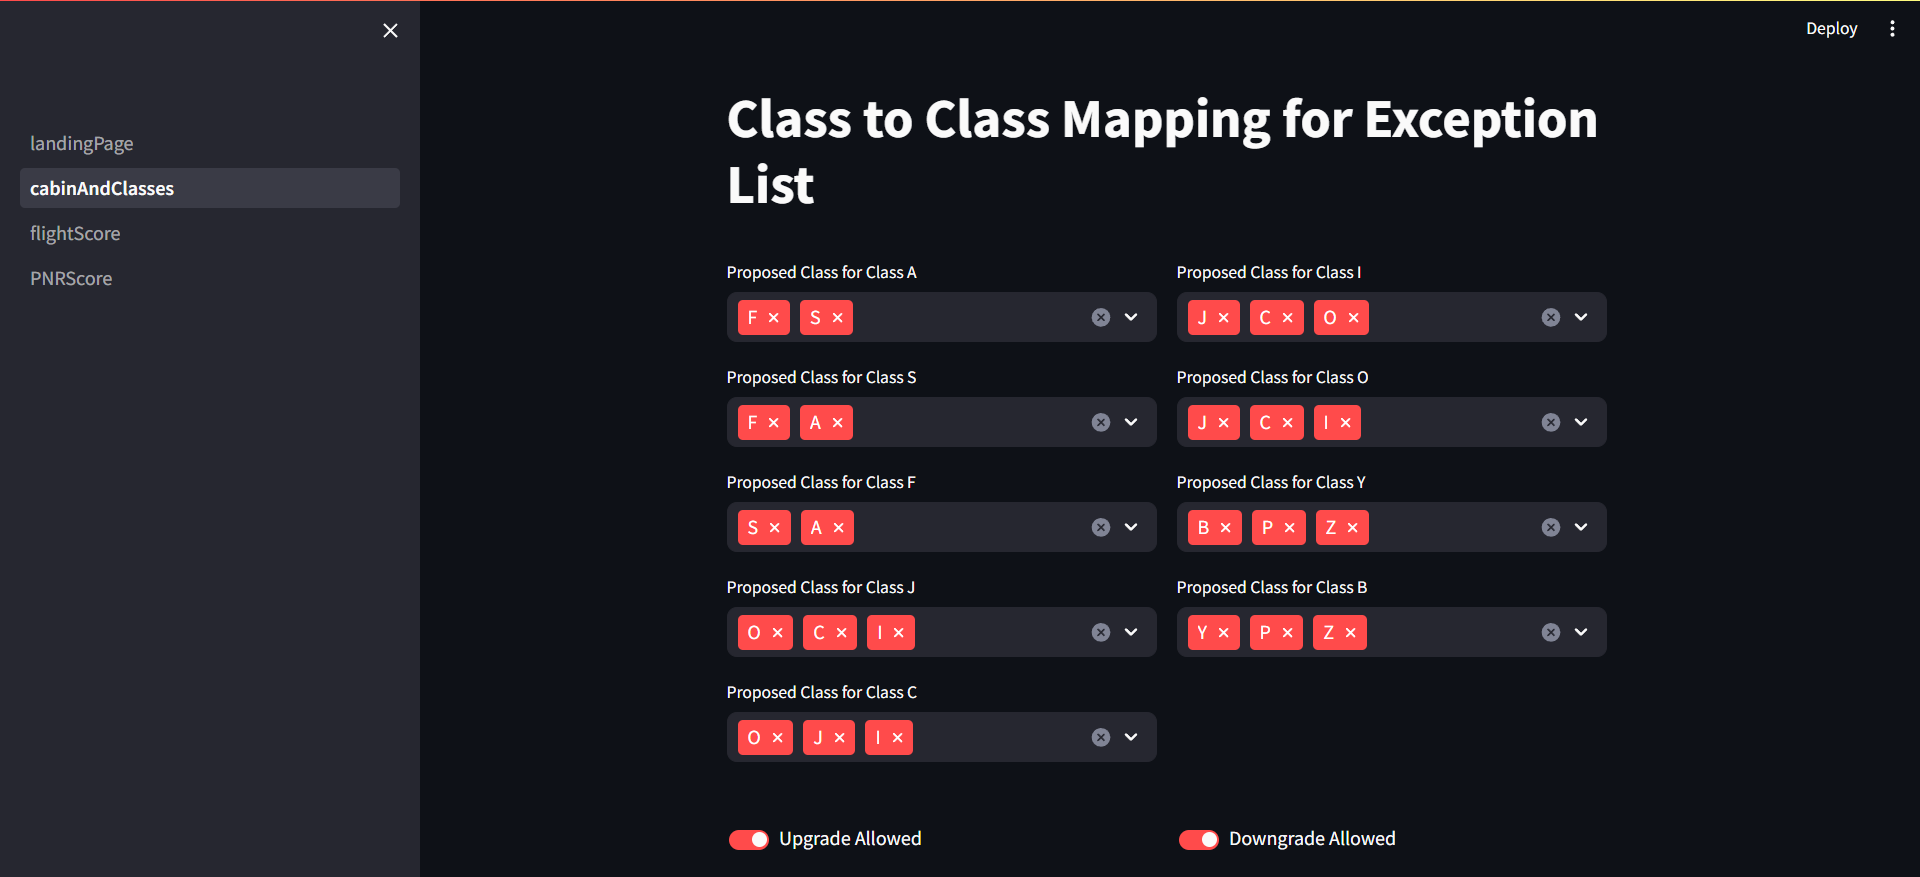
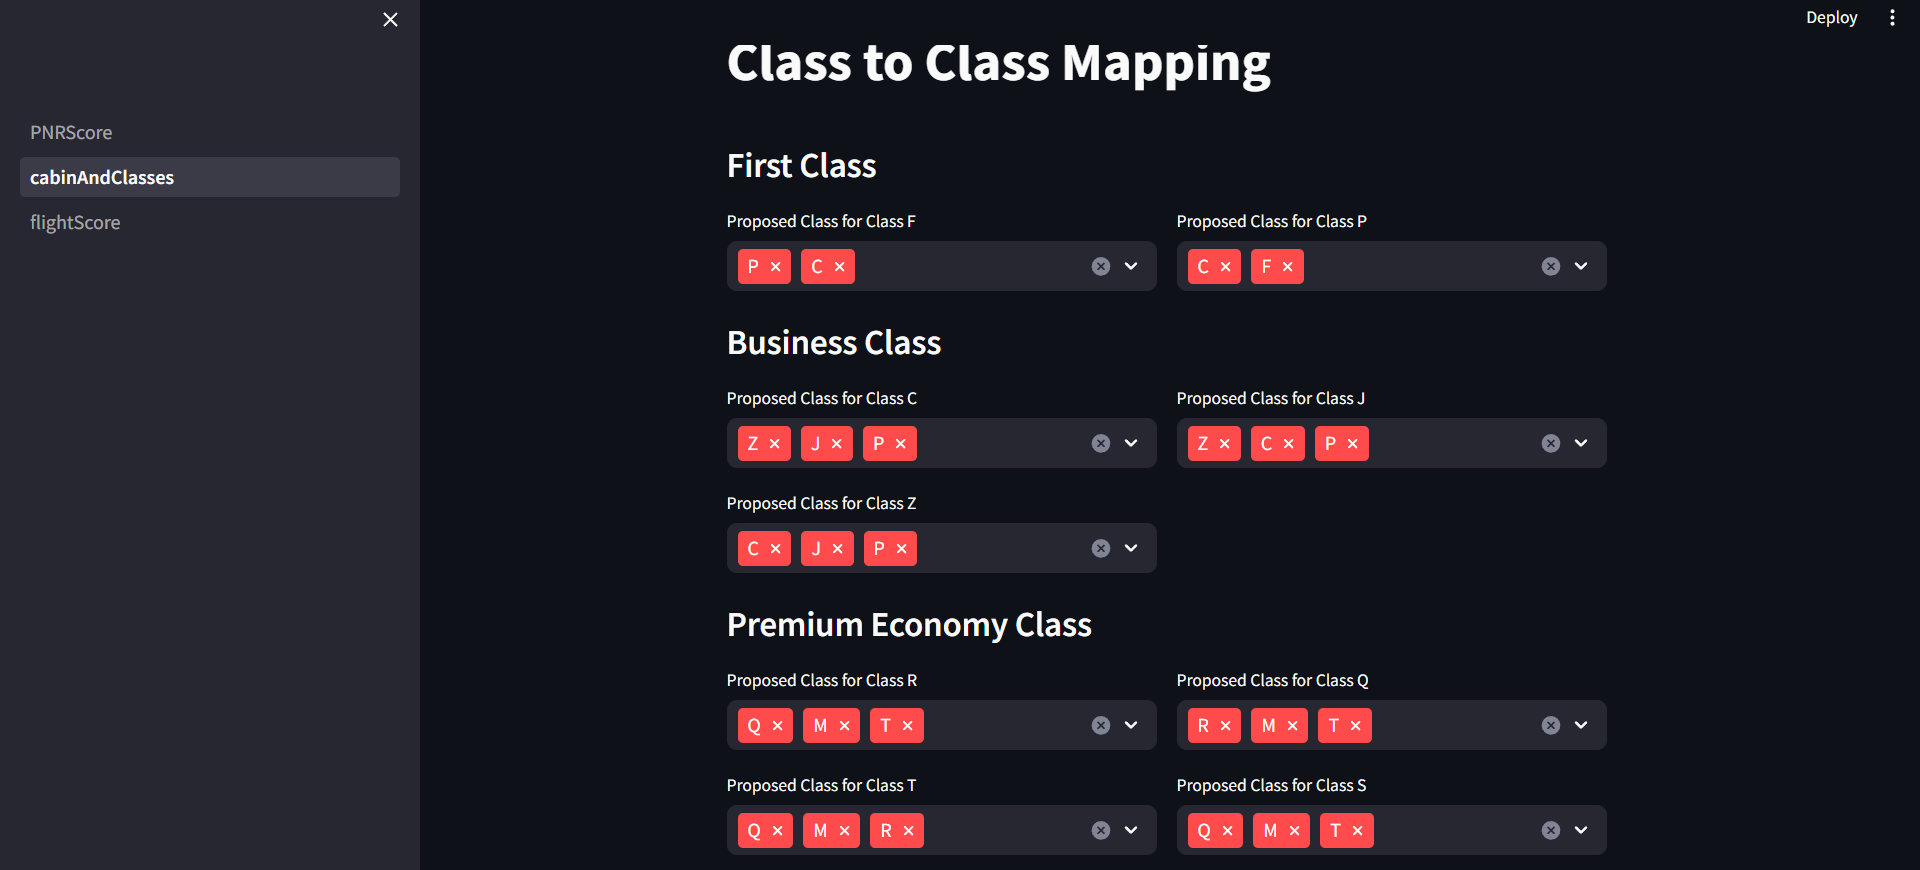
Added more classes to GUI and updated README

diff --git a/pages/cabinAndClasses.py b/pages/cabinAndClasses.py
@@ -1,23 +1,8 @@
 import streamlit as st
 #importing streamlit library
 
-#function to write list to file taking list, name of list 
-#to write and file to write to as arguments
-def writeToList(list,listname,file):
-    #start with <listname>=
-    file.write(listname+"=[")
-    for item in list:
-        #add each item and add a comma at the end
-        if (item!=list[-1]):
-            file.write("'"+str(item)+"',")
-        else:
-            file.write("'"+str(item)+"'")
-        
-    file.write("]\n")
-    #add closing bracket 
-
 #add title for page
-st.title("Class to Class Mapping for Exception List")
+st.title("Class to Class Mapping")
 
 #add empty space
 st.write("")
@@ -25,36 +10,129 @@ st.write("")
 #list of all possible classes
 flightClassOptions=['A','B','C','D','E','F','G','H','I','J','K','L','M','N','O','P','Q','R','S','T','U','V','W','X','Y','Z']
 
+#dictionary to store class as key and list of alternate classes as value
+classChange={}
+
+
+st.subheader("First Class")
+
 #columns to align widgets
 col1,col2=st.columns(2)
 with col1:
-    #list of classes where passengers of class A can be allocated to
-    classChangeA = st.multiselect('Proposed Class for Class A',flightClassOptions,default=['F','S'],key=1)
-
-    #list of classes where passengers of class S can be allocated to
-    classChangeS = st.multiselect('Proposed Class for Class S',flightClassOptions,default=['F','A'],key=2)
     
     #list of classes where passengers of class F can be allocated to
-    classChangeF = st.multiselect('Proposed Class for Class F',flightClassOptions,default=['S','A'],key=3)
-    
-    #list of classes where passengers of class J can be allocated to
-    classChangeJ = st.multiselect('Proposed Class for Class J',flightClassOptions,default=['O','C','I'],key=4)
-    
-    #list of classes where passengers of class C can be allocated to
-    classChangeC = st.multiselect('Proposed Class for Class C',flightClassOptions,default=['O','J','I'],key=5)
+    classChange['F'] = st.multiselect('Proposed Class for Class F',[subclass for subclass in flightClassOptions if subclass!='F'],default=['P','C'])
 with col2:
-    #list of classes where passengers of class I can be allocated to
-    classChangeI = st.multiselect('Proposed Class for Class I',flightClassOptions,default=['J','C','O'],key=6)
+    #list of classes where passengers of class P can be allocated to
+    classChange['P'] = st.multiselect('Proposed Class for Class P',[subclass for subclass in flightClassOptions if subclass!='P'],default=['C','F'])
     
+
+st.subheader("Business Class")
+col1,col2=st.columns(2)
+with col1:
+    #list of classes where passengers of class C can be allocated to
+    classChange['C'] = st.multiselect('Proposed Class for Class C',[subclass for subclass in flightClassOptions if subclass!='C'],default=['Z','J','P'])
+    
+    #list of classes where passengers of class Z can be allocated to
+    classChange['Z'] = st.multiselect('Proposed Class for Class Z',[subclass for subclass in flightClassOptions if subclass!='Z'],default=['C','J','P'])
+with col2:
+    #list of classes where passengers of class J can be allocated to
+    classChange['J'] = st.multiselect('Proposed Class for Class J',[subclass for subclass in flightClassOptions if subclass!='J'],default=['Z','C','P'])
+    
+
+st.subheader("Premium Economy Class")
+
+col1,col2=st.columns(2)
+with col1:
+    
+    #list of classes where passengers of class R can be allocated to
+    classChange['R'] = st.multiselect('Proposed Class for Class R',[subclass for subclass in flightClassOptions if subclass!='R'],default=['Q','M','T'])
+
+    
+    #list of classes where passengers of class T can be allocated to
+    classChange['T'] = st.multiselect('Proposed Class for Class T',[subclass for subclass in flightClassOptions if subclass!='T'],default=['Q','M','R'])
+
+
+    #list of classes where passengers of class M can be allocated to
+    classChange['M'] = st.multiselect('Proposed Class for Class M',[subclass for subclass in flightClassOptions if subclass!='M'],default=['Q','R','T'])
+with col2:
+    
+    #list of classes where passengers of class Q can be allocated to
+    classChange['Q'] = st.multiselect('Proposed Class for Class Q',[subclass for subclass in flightClassOptions if subclass!='Q'],default=['R','M','T'])
+    
+    
+    #list of classes where passengers of class S can be allocated to
+    classChange['S'] = st.multiselect('Proposed Class for Class S',[subclass for subclass in flightClassOptions if subclass!='S'],default=['Q','M','T'])
+
+    #list of classes where passengers of class H can be allocated to
+    classChange['H'] = st.multiselect('Proposed Class for Class H',[subclass for subclass in flightClassOptions if subclass!='H'],default=['Q','M','T'])
+
+
+
+st.subheader("Economy Class")
+col1,col2=st.columns(2)
+with col1:
+    
+    
+    #list of classes where passengers of class A can be allocated to
+    classChange['A'] = st.multiselect('Proposed Class for Class A',[subclass for subclass in flightClassOptions if subclass!='A'],default=['D','L','X'])
+
+    #list of classes where passengers of class D can be allocated to
+    classChange['D'] = st.multiselect('Proposed Class for Class D',[subclass for subclass in flightClassOptions if subclass!='D'],default=['A','X'])
+
+    #list of classes where passengers of class L can be allocated to
+    classChange['L'] = st.multiselect('Proposed Class for Class L',[subclass for subclass in flightClassOptions if subclass!='L'],default=['O','V','X'])
+
     #list of classes where passengers of class O can be allocated to
-    classChangeO = st.multiselect('Proposed Class for Class O',flightClassOptions,default=['J','C','I'],key=7)
+    classChange['O'] = st.multiselect('Proposed Class for Class O',[subclass for subclass in flightClassOptions if subclass!='O'],default=['A','D','X'])
     
+    #list of classes where passengers of class V can be allocated to
+    classChange['V'] = st.multiselect('Proposed Class for Class V',[subclass for subclass in flightClassOptions if subclass!='V'],default=['A','D','O','X'])
+    
+    #list of classes where passengers of class X can be allocated to
+    classChange['X'] = st.multiselect('Proposed Class for Class X',[subclass for subclass in flightClassOptions if subclass!='X'],default=['A','D','V'])
+    
+    #list of classes where passengers of class G can be allocated to
+    classChange['G'] = st.multiselect('Proposed Class for Class G',[subclass for subclass in flightClassOptions if subclass!='G'],default=['A','O'])
+    
+
+    #list of classes where passengers of class K can be allocated to
+    classChange['K'] = st.multiselect('Proposed Class for Class K',[subclass for subclass in flightClassOptions if subclass!='K'],default=['A','O'])
+        
+
+    
+    
+with col2:
+
     #list of classes where passengers of class Y can be allocated to
-    classChangeY = st.multiselect('Proposed Class for Class Y',flightClassOptions,default=['B','P','Z'],key=8)
+    classChange['Y'] = st.multiselect('Proposed Class for Class Y',[subclass for subclass in flightClassOptions if subclass!='Y'],default=['A','V','X'])
     
     #list of classes where passengers of class B can be allocated to
-    classChangeB = st.multiselect('Proposed Class for Class B',flightClassOptions,default=['Y','P','Z'],key=9)
+    classChange['B'] = st.multiselect('Proposed Class for Class B',[subclass for subclass in flightClassOptions if subclass!='B'],default=['O','V','X'])
 
+    #list of classes where passengers of class E can be allocated to
+    classChange['E'] = st.multiselect('Proposed Class for Class E',[subclass for subclass in flightClassOptions if subclass!='E'],default=['A','D','L'])
+
+
+    #list of classes where passengers of class N can be allocated to
+    classChange['N'] = st.multiselect('Proposed Class for Class N',[subclass for subclass in flightClassOptions if subclass!='N'],default=['A','D','L','O'])
+
+    
+    #list of classes where passengers of class U can be allocated to
+    classChange['U'] = st.multiselect('Proposed Class for Class U',[subclass for subclass in flightClassOptions if subclass!='U'],default=['A','D','L','X'])
+    
+    
+    #list of classes where passengers of class W can be allocated to
+    classChange['W'] = st.multiselect('Proposed Class for Class W',[subclass for subclass in flightClassOptions if subclass!='W'],default=['L','O'])
+        
+    #list of classes where passengers of class I can be allocated to
+    classChange['I'] = st.multiselect('Proposed Class for Class I',[subclass for subclass in flightClassOptions if subclass!='I'],default=['A','D'])
+        
+
+    
+    
+    
+    
 #add empty space
 st.write("")
 st.write("")
@@ -62,9 +140,9 @@ st.write("")
 #variable value true if upgrade allowed
 col1,col2=st.columns(2)
 with col1:    
-    upgrade=st.toggle("Upgrade Allowed",value="True",key=10)
+    upgrade=st.toggle("Upgrade Allowed",value="True")
 with col2:
-    downgrade=st.toggle("Downgrade Allowed",value="True",key=11)
+    downgrade=st.toggle("Downgrade Allowed",value="True")
    
  #add empty space   
 st.write("")
@@ -89,22 +167,17 @@ with col3:
         #truth value for upgrade and downgrade
         f.write("upgrade="+str(upgrade)+"\n")
         f.write("downgrade="+str(downgrade)+"\n")
-        #creating lists in the file
-        #contains which other classes the original class can be changed to 
-        f.write("classChange={'A':"+str(classChangeA)+",'S':"+str(classChangeS)+
-                ",'F':"+str(classChangeF)+",'J':"+str(classChangeJ) +",'C':"+
-                str(classChangeC)+",'I':"+str(classChangeI)+",'O':"+str(classChangeO)
-                +",'Y':"+str(classChangeY)+",'B':"+str(classChangeB)+"}")
         
-        
-        #true if first class present
-     #   f.write("first="+str(first)+"\n")
-        
-        #true if business class present
-      #  f.write("business="+str(business)+"\n")
-        
-        ##true if economy class present
-       # f.write("economy="+str(economy)+"\n")
-              
+        #writing classChange dictionary to file
+        f.write("classChange={")
+        for key,value in classChange.items():
+            
+            if (key!=list(classChange.keys())[-1]):    
+                #separate each entry
+                f.write("'"+(key)+"':"+str(value)+",")
+            else:
+                #add closing brace
+                f.write("'"+(key)+"':"+str(value)+"}")
+
         f.close()
         #close file

diff --git a/PNRScore.py b/PNRScore.py
@@ -1,26 +1,12 @@
 import streamlit as st
 #import streamlit library
 
-#from flight_assignment_optimization import *
-#to import function that returns alternate flights
 
-#default values of data
-pnr_data_file = 'Dataset/passenger_pnr_dataset.csv'
-flight_data_file = 'Dataset/flight_schedule_dataset.csv'
-test_PNR_data_file = 'Dataset/Mphasis_Processed/Mock_PNR_Booking.csv'
-test_flight_data_file = 'Dataset/Mphasis_Processed/Mock_Flight_Inv.csv'
-airport_code_location_data_file = 'Dataset/airport-code-to-location.csv'
-# test_PNR_data_file = 'Dataset/test_data/PNR_Test.csv'
-# test_flight_data_file = 'Dataset/test_data/flight_test.csv'
+n_cabin=2
 
-n_cabin = 2
-ETD = 72
-MCT = 1
-MAXCT = 12
-upgrade=True
-downgrade=True
 st.title("Business Rules Modification Engine")
 #heading
+
 st.header("PNR Level Score Modifications")
 st.write("")
 
@@ -31,19 +17,20 @@ st.subheader("Cabin Score")
 st.write("")
 st.write("")
 
-#score for cabin F
+#score for first class
 cabinScoreFirst=st.slider("First Class",1500,2000,value=1950)
 
-#score for cabin Y
+#score for business class
 cabinScoreBusiness=st.slider("Business Class",1500,2000,value=1800)
 
-#
+#score for premium economy class
 cabinScorePremium=st.slider("Premium Economy",1500,2000,value=1700)
 
-#score for cabin J
+#score for economy class
 cabinScoreEconomy=st.slider("Economy",1500,2000,value=1500)
-st.write("")
 
+
+st.write("")
 st.write("")
 
 #loyalty scores
@@ -54,7 +41,6 @@ col1,col2=st.columns(2)
 with col1:
     #score for CM Presidential Platinum class
     CM=st.slider("CM Presidential Platinum",1500,2000,value=2000)
-    
     #score for gold class
     gold=st.slider("Gold",1500,2000,value=1600)
 with col2:
@@ -98,9 +84,7 @@ with col3:
     PNR_penalty=st.number_input("Penalty for no allocation",value=100,min_value=0)
 
 st.write("")
-
 st.subheader("Weightage")
-
 
 #divide into 3 columns
 col1,col2,col3=st.columns(3)
@@ -128,15 +112,15 @@ st.write("")
 col1,col2,col3=st.columns(3)
 with col1:
     #constraint for max ETD
-    ETD = st.number_input("Enter Maximum ETD Allowed",value=ETD,min_value=0)
+    ETD = st.number_input("Enter Maximum ETD Allowed",value=72,min_value=0)
     
 with col2:
     #constraint for maximum connecting time
-    MAXCT= st.number_input("Enter Maximum Connecting Time",min_value=0,value=MAXCT)
+    MAXCT= st.number_input("Enter Maximum Connecting Time",min_value=0,value=12)
     
 with col3:
     #constraint for minimum connecting time
-    MCT= st.number_input("Enter Minimum Connecting Time",min_value=0,value=MCT)
+    MCT= st.number_input("Enter Minimum Connecting Time",min_value=0,value=1)
 
 CITY_PAIR_THRESHOLD=st.number_input("Enter maximum allowed travel time between original and new airport",min_value=0,value=8)
 #add empty space

diff --git a/constants.py b/constants.py
@@ -3,6 +3,8 @@ flight_data_file = 'Dataset/flight_schedule_dataset.csv'
 test_PNR_data_file = 'Dataset/Mphasis_Processed/Mock_PNR_Booking.csv'
 test_flight_data_file = 'Dataset/Mphasis_Processed/Mock_Flight_Inv.csv'
 airport_code_location_data_file = 'Dataset/airport-code-to-location.csv'
+# test_PNR_data_file = 'Dataset/test_data/PNR_Test.csv'
+# test_flight_data_file = 'Dataset/test_data/flight_test.csv'
 n_cabin=2
 ETD=72
 cabinScoreFirst=1950
@@ -11,13 +13,13 @@ cabinScorePremium=1700
 cabinScoreEconomy=1500
 MCT=1
 MAXCT=12
-PNR_SSR={'grade1':250,'grade2':151}
-loyalty_dict={'CM':2000,'Platinum':1800,'Gold':1600,'Silver':1500}
-PNR_connection=96
+PNR_SSR={'grade1':250,'grade2':150}
+loyalty={'CM':2000,'platinum':1800,'gold':1600,'silver':1500}
+PNR_connection=100
 PNR_paidservice=200
 PNR_bookingtype=500
 PNR_pax=50
-NON_ASSIGNMENT_COST=100
+NON_ASSIGNMENT_COST=-100
 CITY_PAIR_THRESHOLD=8
 weight_flight_map=100
 weight_pnr_map=100

diff --git a/classRules.py b/classRules.py
@@ -1,10 +1,3 @@
-upgrade_downgrade=False
-classChangeA=['F','S']
-classChangeS=['F','A']
-classChangeF=['S','A']
-classChangeJ=['O','C','I']
-classChangeC=['O','J','I']
-classChangeI=['J','C','O']
-classChangeO=['J','C','I']
-classChangeY=['B','P','Z']
-classChangeB=['Y','P','Z']
+upgrade=True
+downgrade=True
+classChange={'F':['P', 'C'],'P':['C', 'F'],'C':['Z', 'J', 'P'],'Z':['C', 'J', 'P'],'J':['Z', 'C', 'P'],'R':['Q', 'M', 'T'],'T':['Q', 'M', 'R'],'M':['Q', 'R', 'T'],'Q':['R', 'M', 'T'],'S':['Q', 'M', 'T'],'H':['Q', 'M', 'T'],'A':['D', 'L', 'X'],'D':['A', 'X'],'L':['O', 'V', 'X'],'O':['A', 'D', 'X'],'V':['A', 'D', 'O', 'X'],'X':['A', 'D', 'V'],'G':['A', 'O'],'K':['A', 'O'],'Y':['A', 'V', 'X'],'B':['O', 'V', 'X'],'E':['A', 'D', 'L'],'N':['A', 'D', 'L', 'O'],'U':['A', 'D', 'L', 'X'],'W':['L', 'O'],'I':['A', 'D']}

diff --git a/flightScores.py b/flightScores.py
@@ -2,7 +2,7 @@ arrDelay6h=70
 arrDelay12h=50
 arrDelay24h=40
 arrDelay48h=30
-STD6h=72
+STD6h=70
 STD12h=50
 STD24h=40
 STD48h=30

diff --git a/README.md b/README.md
@@ -41,12 +41,6 @@ Now, to run the script enter the following command in the terminal
 ## Working
 
 Each file contains widgets to adjust various parameters along with some default values. On pressing the proceed button at the bottom of each page, all the values chosen are written into a python file as variables which can be imported for use in other programs.
- ### LandingPage.py
- - Main page of the GUI
- - Used to modify cabin allocation and maximum departure delay
- - **Writes to default.py**.
-   
-![Landing Page](./assets/Landing_Page_SS.png)
 
  ### PNRScore.py
 - Used to modify scores for PNR priority calculation parameters like PAX, loyalty, classes, MCT, MAXCT, ETD, etc
